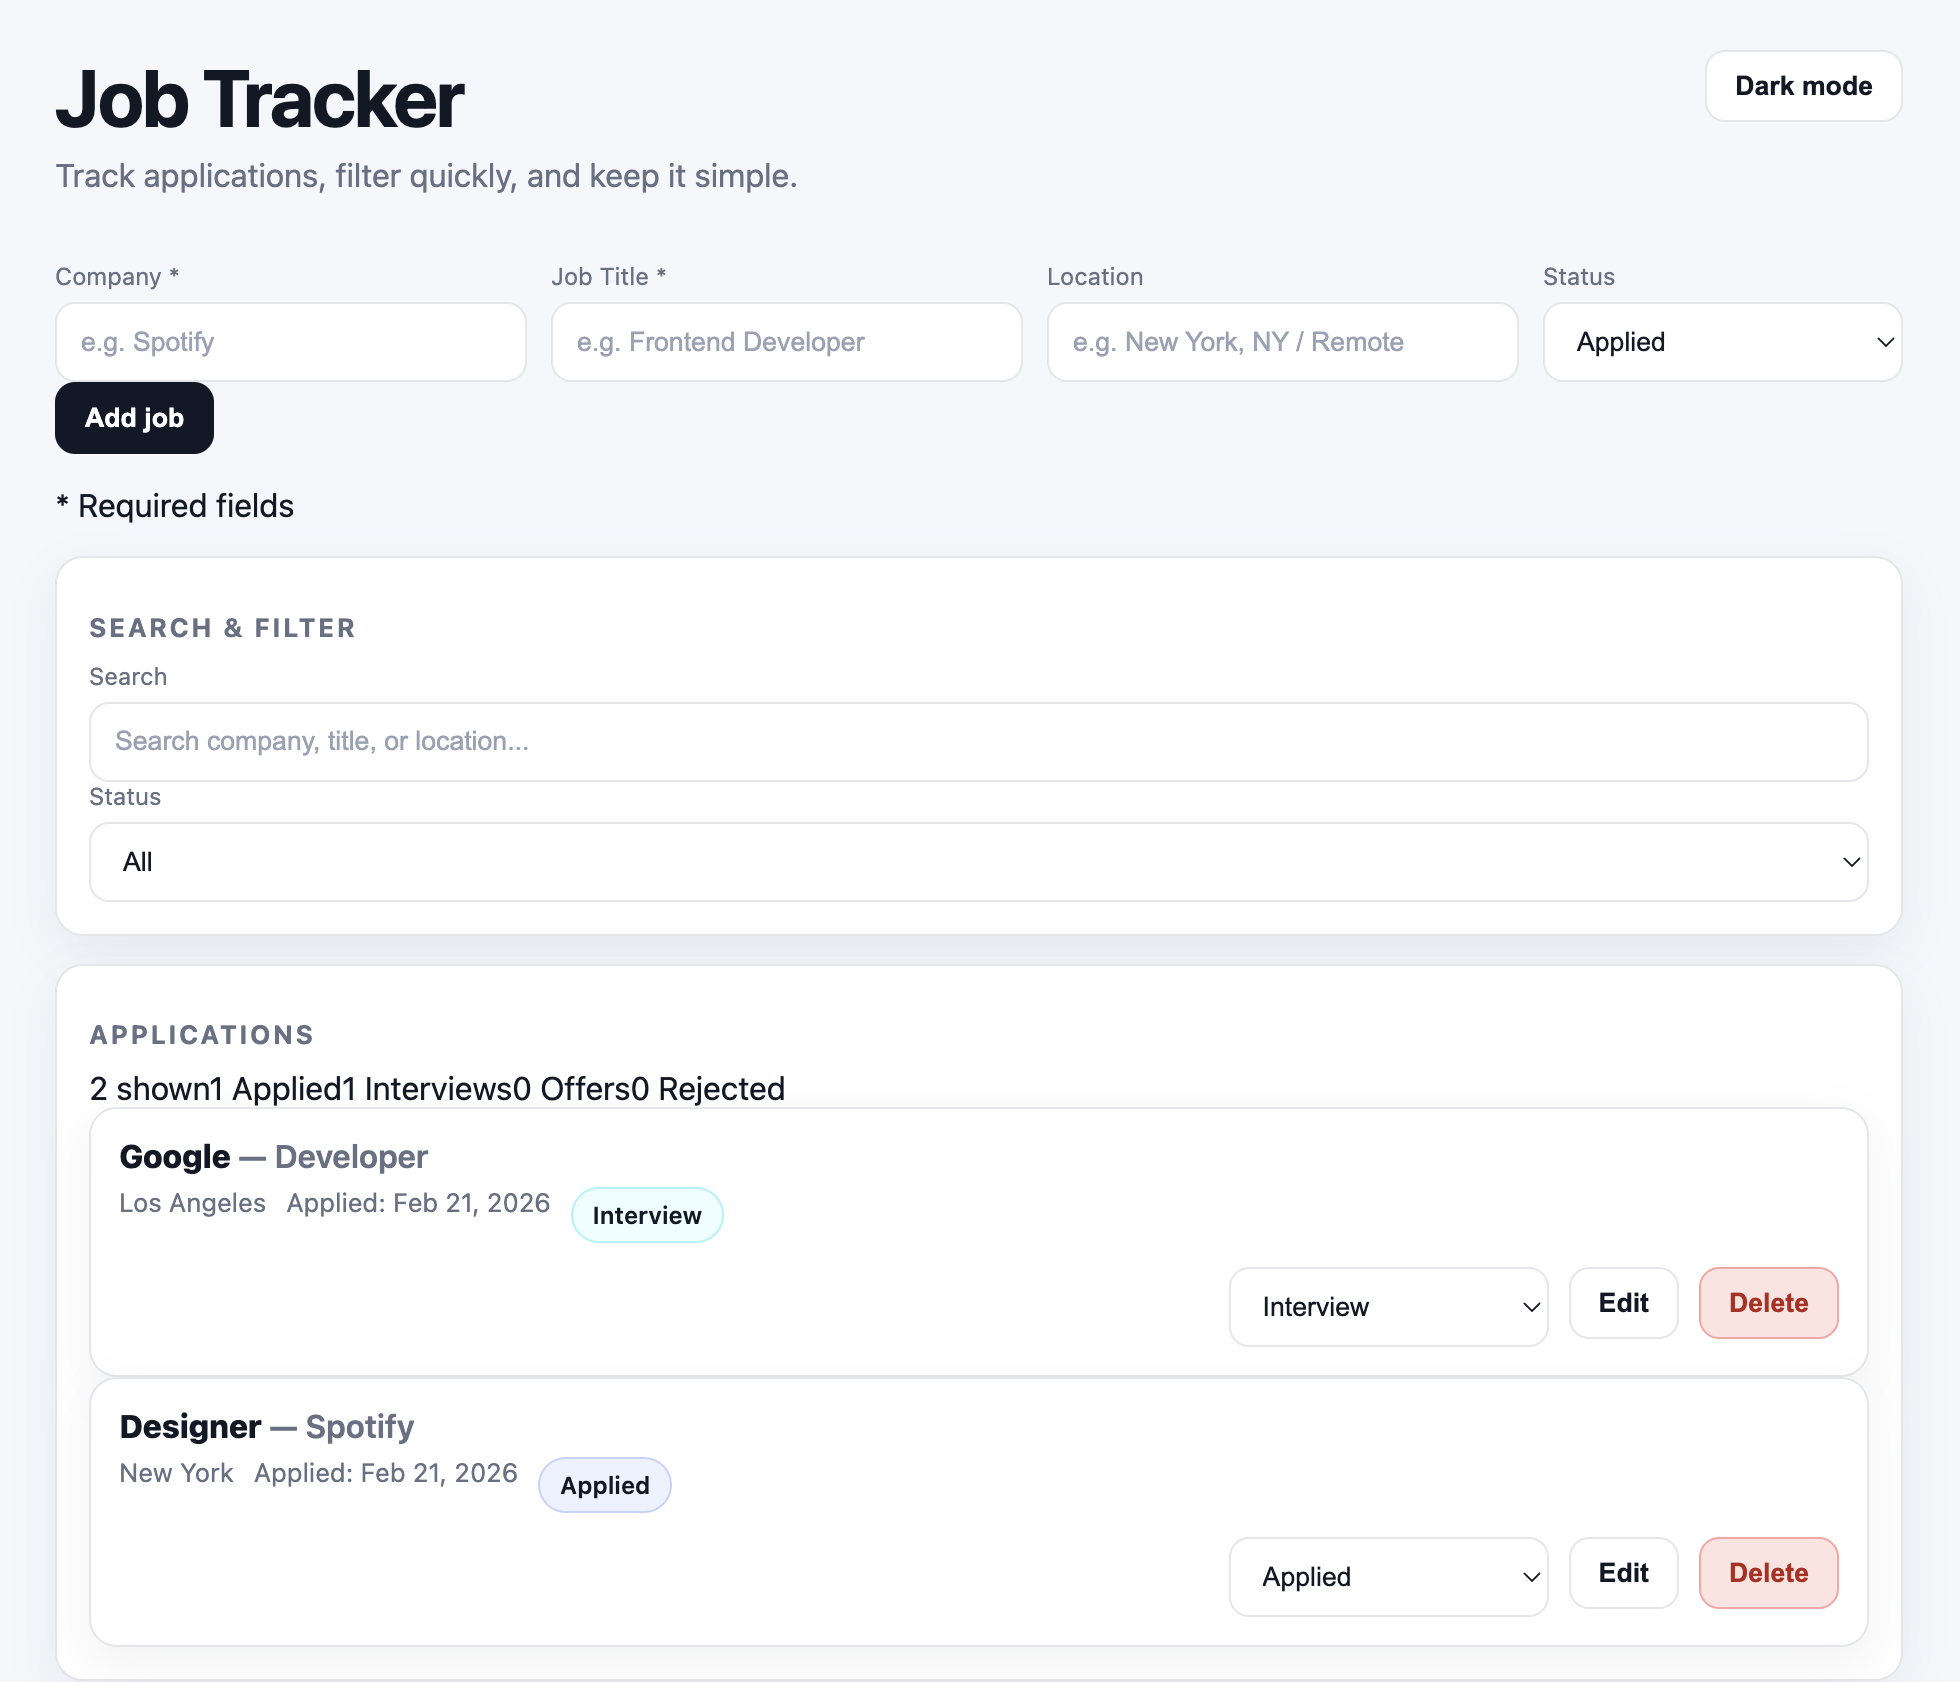
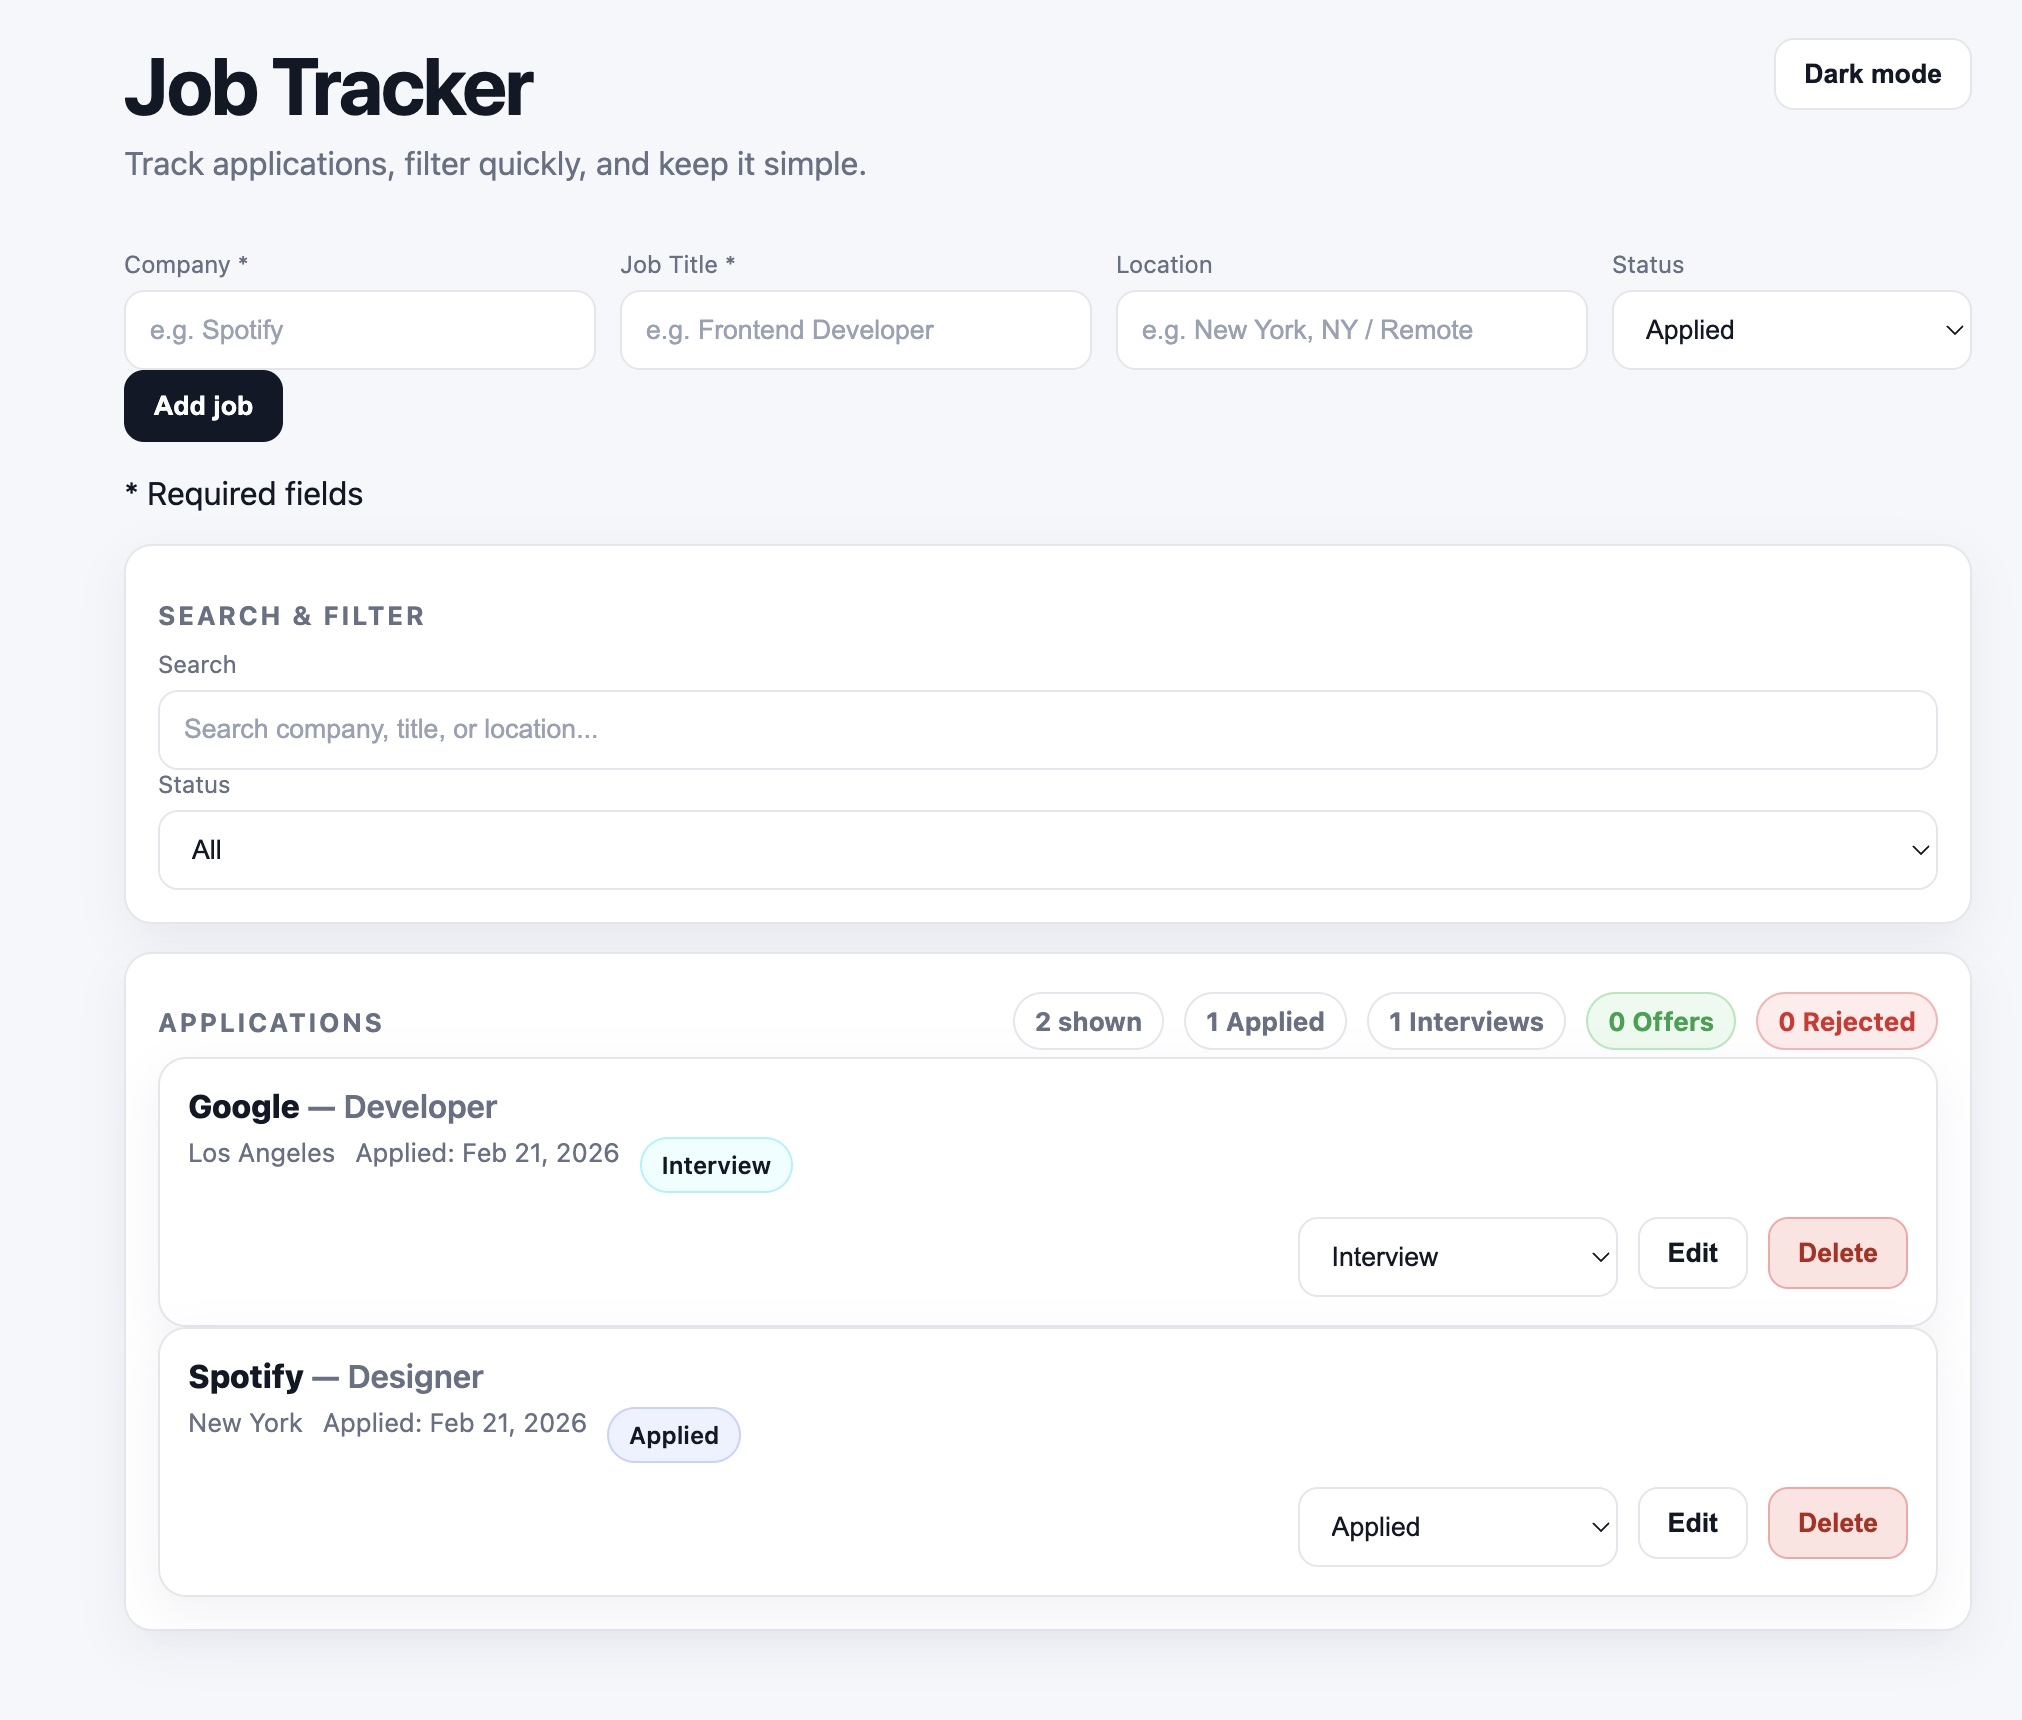
UI polish, fix stats layout, update preview screenshot, remove unused files

diff --git a/src/styles.css b/src/styles.css
@@ -98,6 +98,48 @@ body {
   margin-bottom: 10px;
 }
 
+/* ✅ header row used in JobList.tsx */
+.panelHeaderRow {
+  display: flex;
+  align-items: center;
+  justify-content: space-between;
+  gap: 12px;
+  flex-wrap: wrap;
+}
+
+/* ✅ pills spacing fix (this is what stops: 0 shown0 Applied0...) */
+.pillRow {
+  display: flex;
+  align-items: center;
+  flex-wrap: wrap;
+  gap: 10px;
+}
+
+.pill {
+  display: inline-flex;
+  align-items: center;
+  white-space: nowrap;
+  padding: 6px 10px;
+  border-radius: 999px;
+  border: 1px solid var(--border);
+  background: var(--panel);
+  color: var(--muted);
+  font-size: 13px;
+  font-weight: 700;
+}
+
+.pill.success {
+  border-color: rgba(34, 197, 94, 0.35);
+  background: rgba(34, 197, 94, 0.10);
+  color: rgb(22, 163, 74);
+}
+
+.pill.danger {
+  border-color: rgba(239, 68, 68, 0.35);
+  background: rgba(239, 68, 68, 0.10);
+  color: rgb(220, 38, 38);
+}
+
 /* =========================
    FORM & INPUTS
 ========================= */
